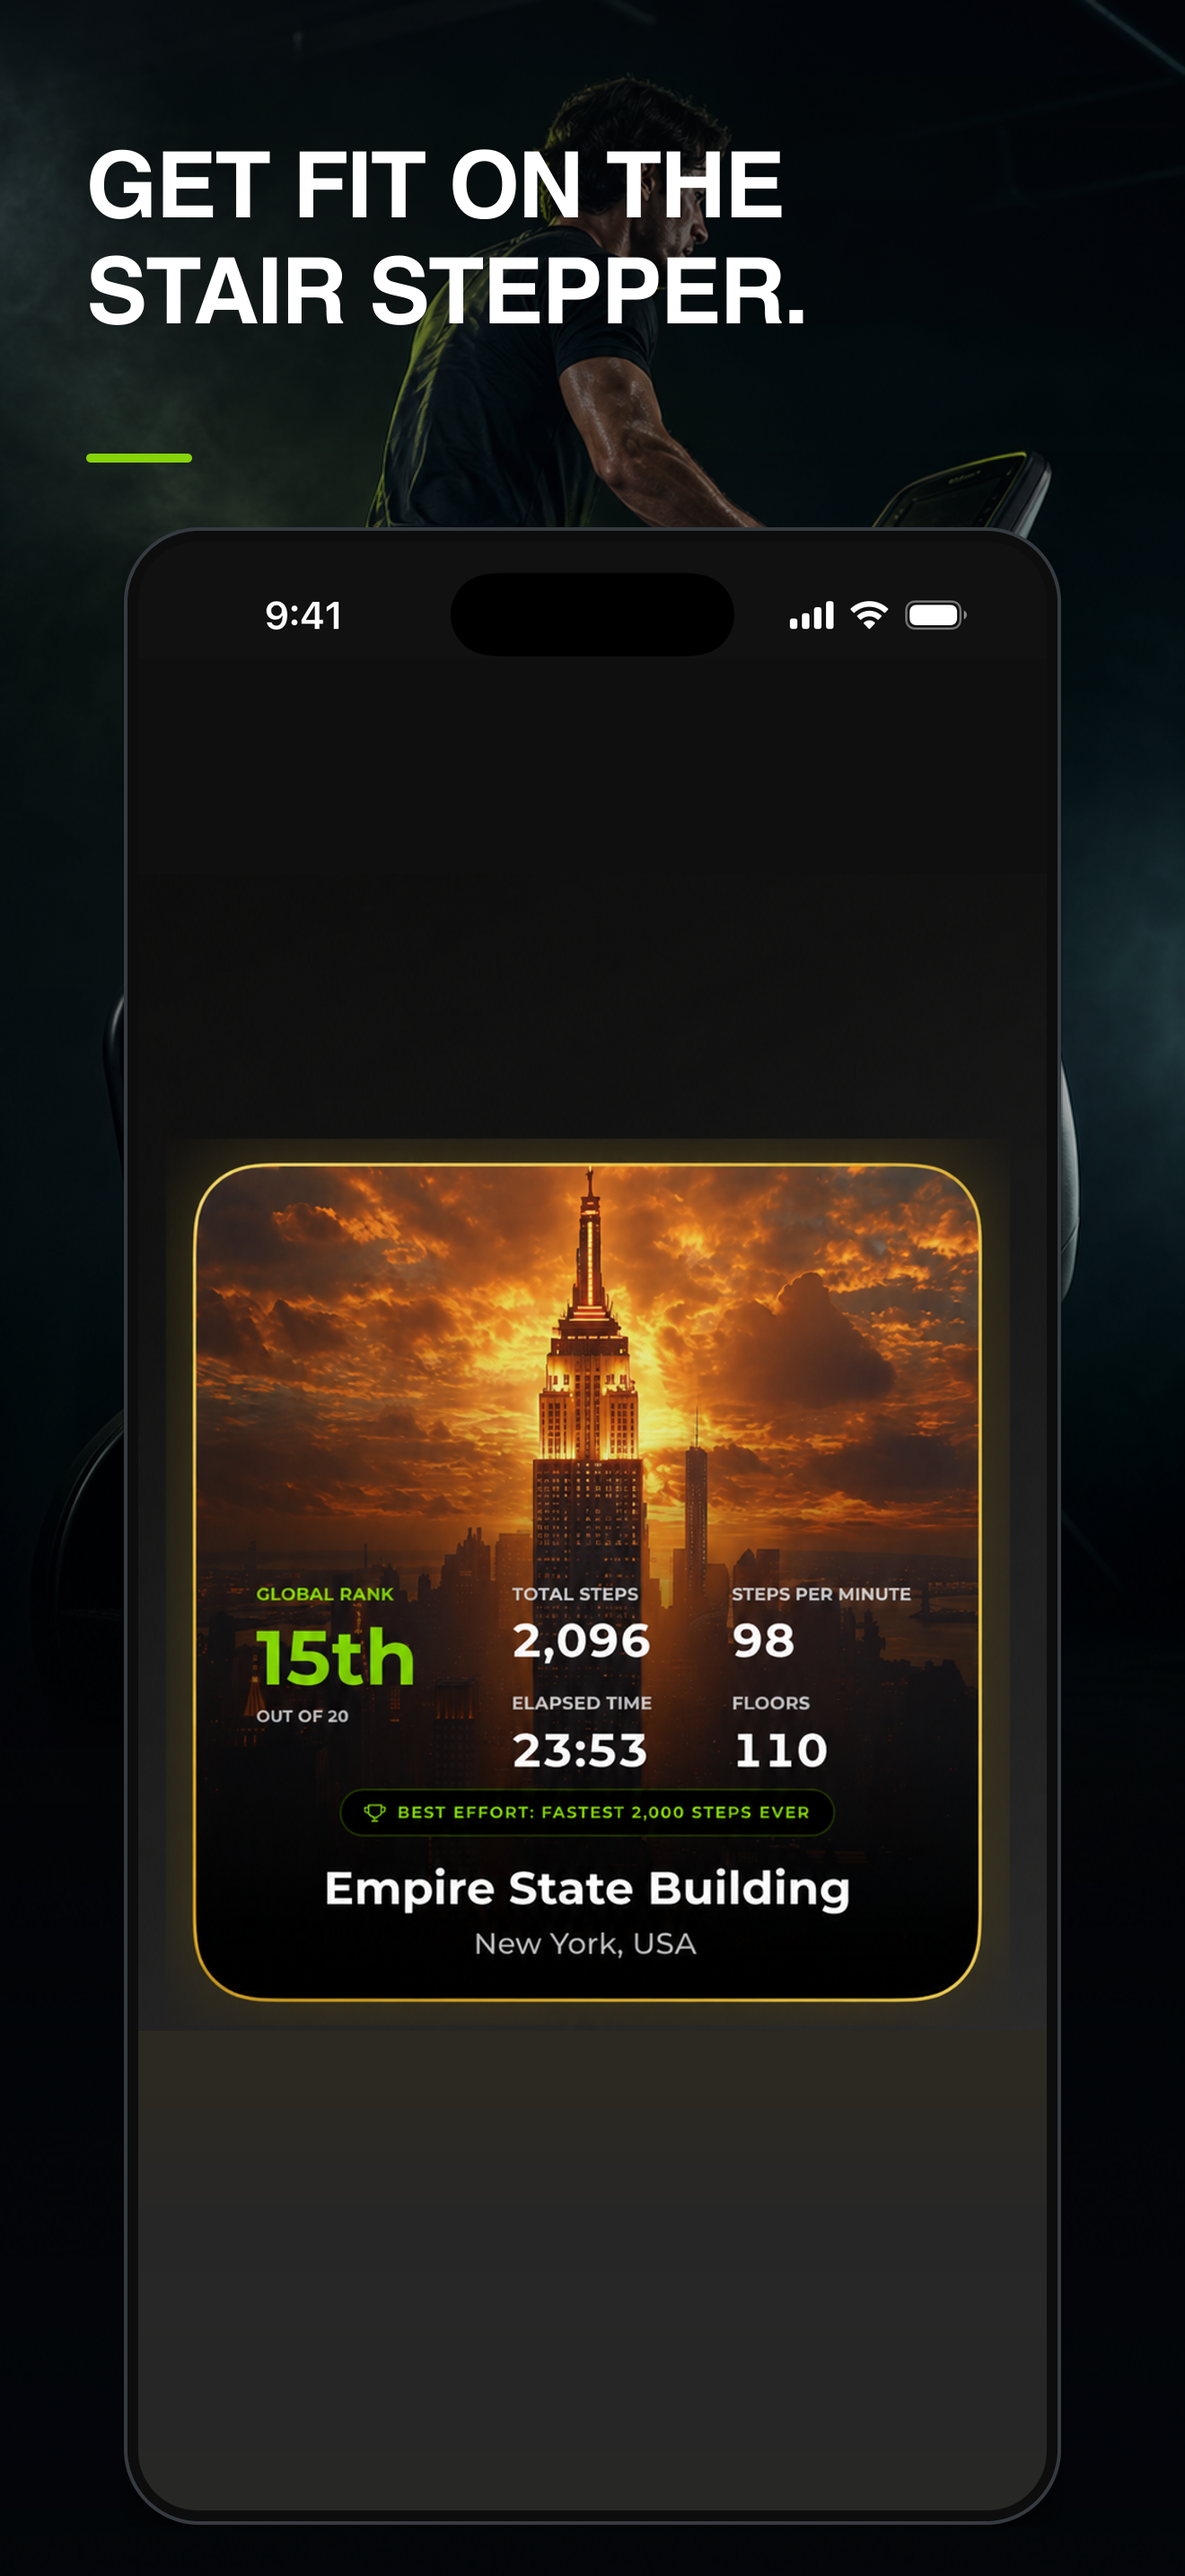
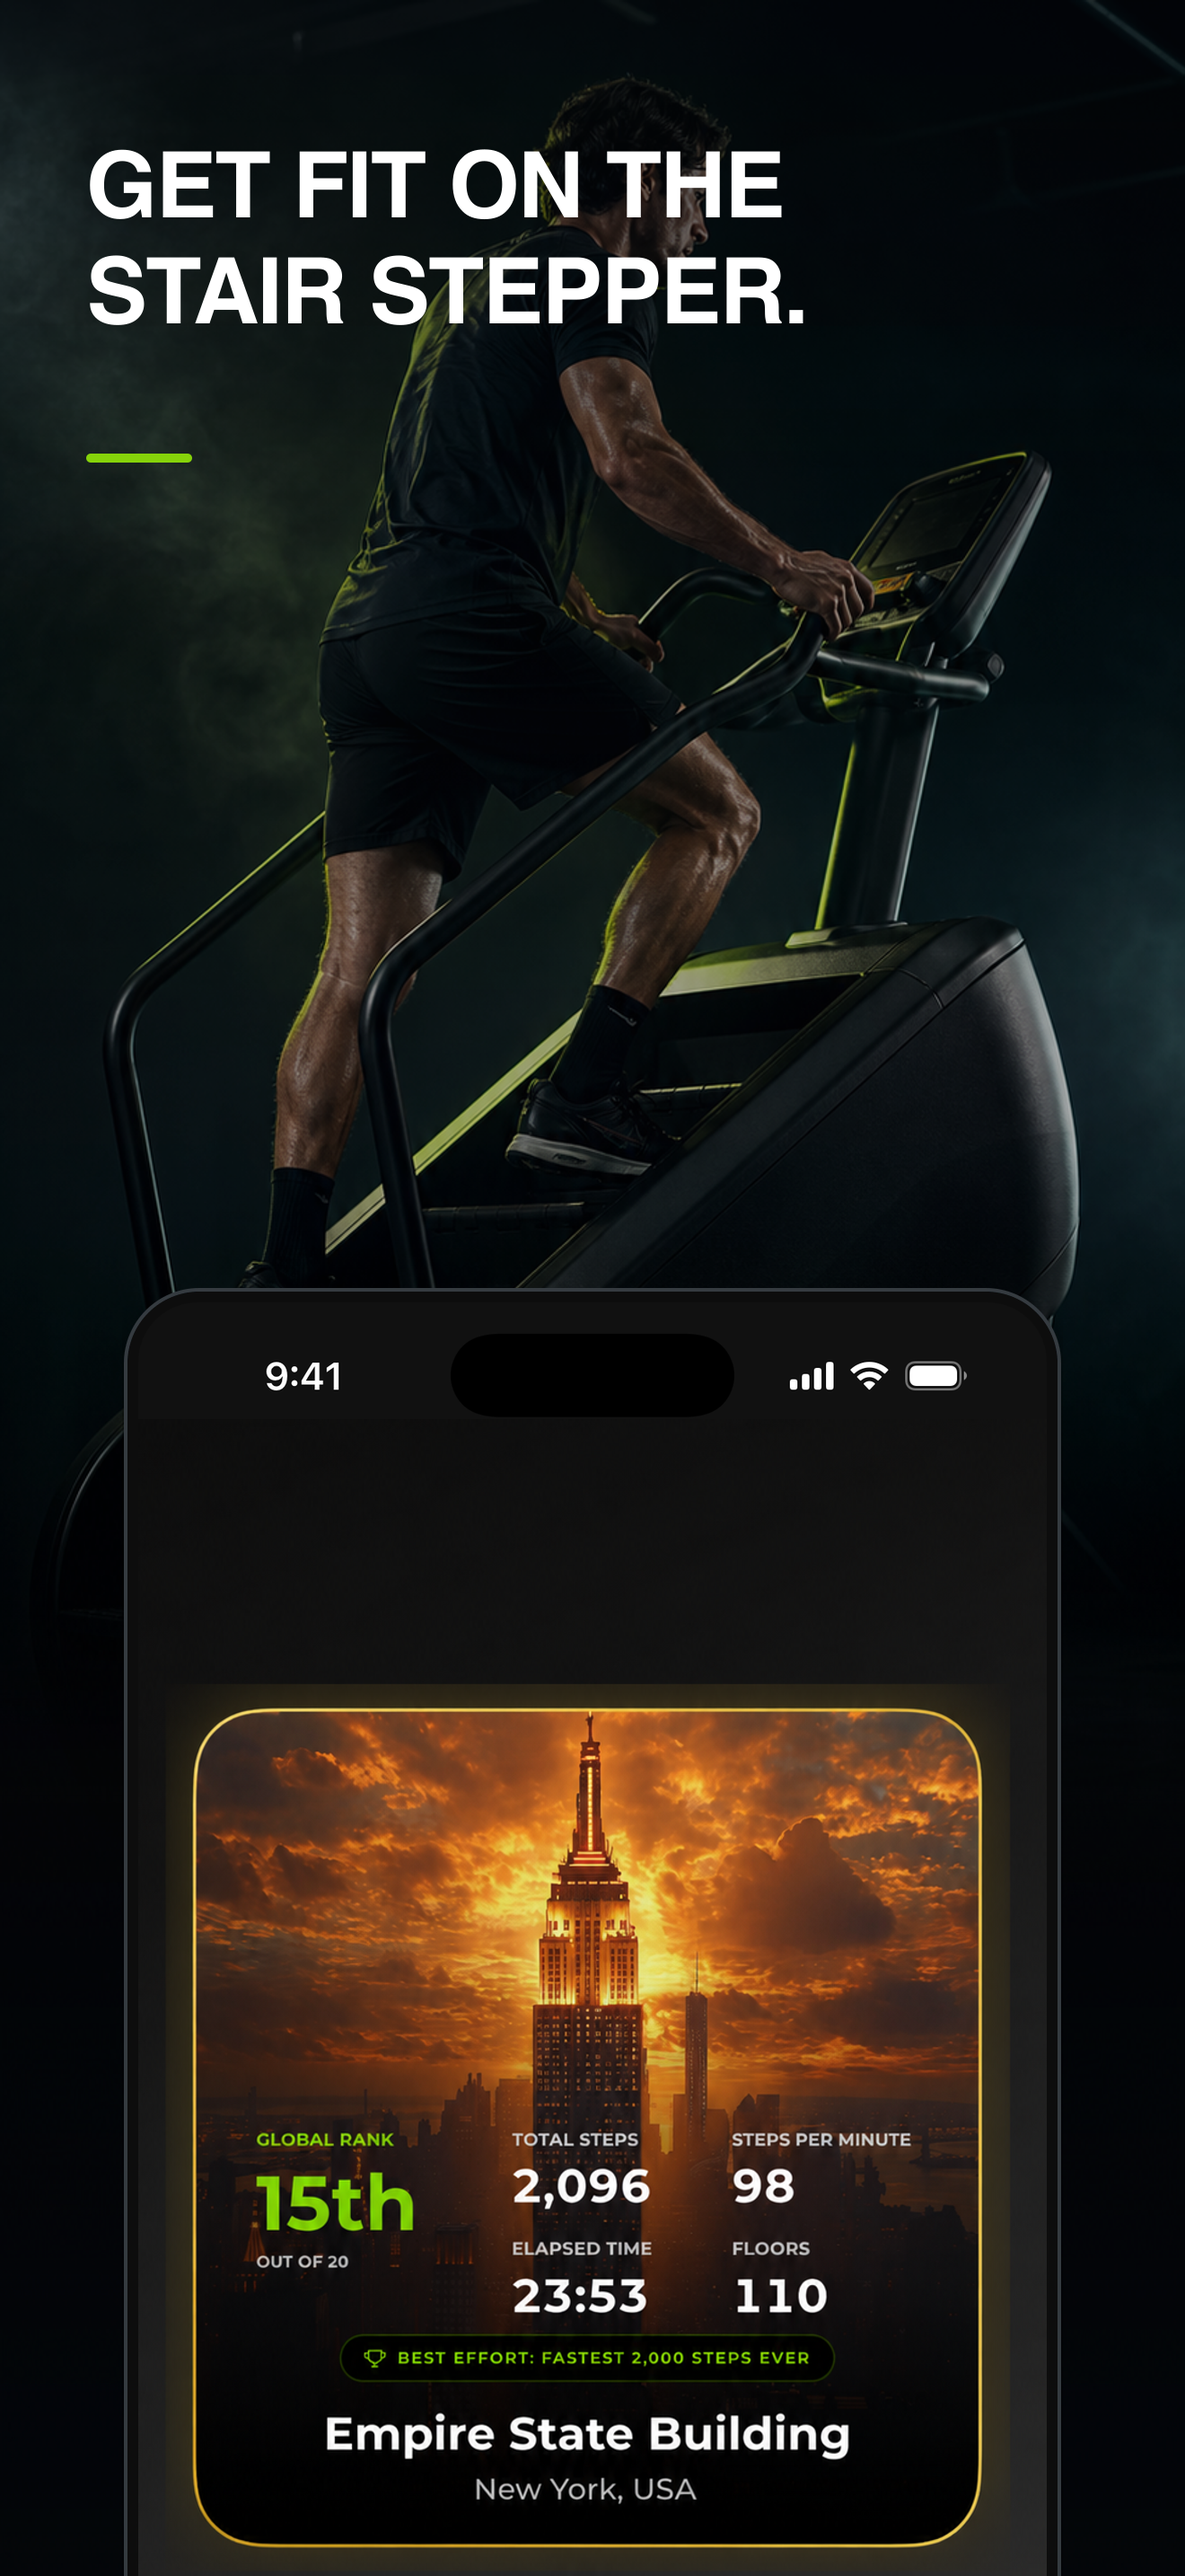
no-mistakes(review): use only real capture pixels at whole element boundaries

diff --git a/AppStoreAssets/qa/review.md b/AppStoreAssets/qa/review.md
@@ -5,18 +5,40 @@ Review date: July 29, 2026.
 The final rendered contact sheet was reviewed as one horizontal storefront sequence.
 The seven screens form a coherent progression from stair-stepper effort, to Everest-scale ambition, to landmark discovery, live racing, ranking, First Ascent prestige, and durable records.
 
+## Genuine pixels
+
+- Every pixel inside every phone screen comes from a real Ascend capture. Nothing is padded, stretched, averaged, tiled, or filled with an invented surface, and no gradient stands in for app UI.
+- The only composited layers are the two approved photographs, the headline type, the accent rule, and the device frame.
+- The status band is the one exception by design: a single real capture's status bar is reused on all seven screens so the clock, signal, Wi-Fi and battery match.
+
 ## Composition
 
-- All seven screenshots use the same phone geometry, inset height, inset width, and vertical placement.
-- The phone screen is 1012 x 2192, the 19.5:9 proportion of the device the captures came from, so every capture lands at its true shape.
-- The whole device sits inside the canvas: 1048 x 2228 at (136, 585) ends 55px above the bottom edge, so nothing is sliced by the canvas.
+- All seven screens use the same device: 1048 x 2218 with an 18px bezel and a 1012 x 2182 screen, the 19.5:9 proportion of the device the captures came from, so every capture lands at its true shape.
 - Every app body is scaled by width only. No screen loses a column of app UI, so no header, card corner, icon, wreath, row background, or control is cut off sideways.
-- Screens 03 and 05 fill the phone body from their captures with no crop at all; screens 02, 06 and 07 give up 9 rows at the very bottom of the capture; screen 04 gives up its blank leading padding and its home indicator.
-- Where app content meets the bottom of the phone screen - the Easiest carousel on 03, the fourth leaderboard row on 05 - it is the capture's own scroll edge, framed by the device bezel, exactly as the running app renders it.
-- Screens 01 and 02 have equal visual weight and identical device framing.
+- Screens 02 through 07 place the device at (136, 585), ending 65px above the bottom of the canvas with the whole frame visible.
+- Screen 01 runs its device off the bottom of the canvas, so its visible screen is 1012 x 1418. This is what lets the lead screenshot be entirely real: the recap card is about half a screen tall, and the capture has no further chrome-free surface below it, so a fully framed device could only have been completed with invented pixels.
+- The lead pair share the same device width, bezel, corner radius, status bar and headline block. Screen 01 gives more of its canvas to the photograph and less to the device; screen 02 the reverse. Their masses read as a matched pair rather than a repeat.
 - The two approved photographs are full-bleed and byte-identical to the preserved source files; the canvas is within half a percent of their aspect, so the fit is effectively uncropped.
 - Both photographic screens carry genuine Ascend UI.
 - No source is letterboxed.
+
+## Bottom boundaries
+
+Each screen declares the last capture row that must be whole and the first row that must not appear at all, and the renderer refuses to build a body whose bottom edge falls outside that gap.
+
+| Screen | Last whole element | Bottom edge | First excluded element |
+|---|---|---|---|
+| 01 | recap card, row 1339 | row 1346 | page dots, row 1351 |
+| 02 | supporting copy, row 2107 | row 2601 | end of capture, row 2622 |
+| 03 | Easiest section header, row 1546 | row 1565 | first Easiest card, row 1570 |
+| 04 | End attempt control, row 1766 | row 1774 | home indicator, row 1816 |
+| 05 | rule under the third leaderboard row, row 1550 | row 1565 | fourth row's avatar, row 1574 |
+| 06 | Skip control, row 2380 | row 2601 | end of capture, row 2622 |
+| 07 | chart card's rounded bottom, row 2621 | row 2622 | end of capture, row 2622 |
+
+- No card, row, glyph, icon, or control is sliced at any edge on any screen.
+- Screen 03's Machu Picchu card runs off the right of the phone screen because that carousel scrolls horizontally in the running app; that is the capture's own state, not a crop.
+- Screen 07 shows the Best Effort chart card complete, including its rounded bottom corners.
 - No action, primary or secondary, is partially visible at any edge.
 - Every app body begins below the status bar at a complete UI boundary.
 
@@ -31,12 +53,11 @@ The seven screens form a coherent progression from stair-stepper effort, to Ever
 ## Content coherence
 
 - Screen 01 pairs stair-stepper effort photography with the genuine Live Climb recap card: 15th global rank, 2,096 steps, 98 SPM, 23:53, 110 floors, and Empire State Building.
-- Screen 01's phone body is the widest chrome-free window of the real share capture - the card and the app background around it - centred on the card, with the window's own edge tone continuing to the top and bottom of the screen. There is no invented gradient and no invented app surface.
-- Screen 01 contains no share-sheet title, dismissal control, explanatory copy, or share-destination buttons.
+- Screen 01 contains no share-sheet title, dismissal control, explanatory copy, page dots, or share-destination buttons.
 - Screen 02 pairs its Everest headline with an app surface that visibly includes the Everest card and names Mt. Everest in its supporting copy. All six landmark cards are whole.
-- Screen 03 shows the live globe and real landmark catalog, with the Popular header, its See all action, and the Machu Picchu card complete.
+- Screen 03 shows the live globe and real landmark catalog, with the Popular header, its See all action, and all three Popular cards complete.
 - Screen 04 shows an in-progress replay leaderboard with the current climber highlighted and the real, enabled End attempt control. Nothing below the list is painted in.
-- Screen 05 shows the per-climb completion leaderboard and does not use the known-bad split-summary capture.
+- Screen 05 shows the per-climb completion leaderboard, its top three finishers complete, and does not use the known-bad split-summary capture.
 - Screen 06 shows the real First Ascent badge, First Ascent copy, a genuinely enabled notification action, and its complete Skip control.
 - Screen 07 shows a real Best Effort record, its whole laurel wreath, and its progression chart with a complete axis.
 - No disabled primary action appears anywhere in the set.
@@ -57,4 +78,4 @@ The seven screens form a coherent progression from stair-stepper effort, to Ever
 - Every file is exactly 1320 x 2868.
 - Every file is sRGB.
 - No file has an alpha channel.
-- The renderer refuses to run if the phone frame would bleed past the canvas, and refuses to build a body from a capture that is too short to fill the screen without cropping sideways.
+- The renderer refuses to run if a device would fall outside the band between the headline rule and the bottom of the canvas, if a capture is too short to fill the screen without cropping sideways, or if a body's bottom edge would slice a declared element.

diff --git a/AppStoreAssets/README.md b/AppStoreAssets/README.md
@@ -14,13 +14,13 @@ The app target is iPhone-only, so there is no iPad set.
 
 ## Source integrity
 
-Every input lives in `sources/`, so the package renders the same whatever else changes in the repository.
-Nothing is read from `web/`.
+Every image input lives in `sources/`, so re-cropping or replacing a website marketing image cannot change these renders.
+Nothing under `web/` is read as image input; the only thing this script takes from `web/` is the Sharp package - see Render below.
 
 The two approved transformation photographs are preserved as `01-stair-stepper-effort.png` and `02-everest-summit.png`.
 They are used as full-bleed backgrounds rather than replaced.
 
-Every screen contains genuine Ascend UI, taken whole:
+Every screen contains genuine Ascend UI, and every pixel inside every phone screen comes from one of these captures:
 
 | Screen | Capture |
 |---|---|
@@ -35,28 +35,30 @@ Every screen contains genuine Ascend UI, taken whole:
 ## Geometry
 
 The phone screen is sized from the captures rather than the other way round.
-Every capture is a whole 19.5:9 iPhone screen, so the inner screen is 1012 x 2192 and each capture lands at its true proportions.
+Every capture is a whole 19.5:9 iPhone screen, so the screen is 1012 x 2182 and each capture lands at its true proportions.
 Scaling is always width-driven, which is what keeps app text, card edges and controls off the crop line.
 
-The whole device fits inside the canvas, so nothing is sliced by the canvas edge.
-Where app content does meet the bottom of the phone screen it is the capture's own scroll edge, framed by the bezel, as the running app renders it.
+Each screen declares the last capture row that must be whole and the first row that must not appear at all.
+The body height was chosen so every screen's bottom edge lands in the gap between those two rows, and the renderer refuses to build a body that falls outside it.
+`qa/review.md` tabulates the boundary chosen for each screen.
+
+Screens 02 through 07 show the whole device inside the canvas.
+Screen 01 runs its device off the bottom: the recap card is about half a screen tall and the capture has no further chrome-free surface below it, so a fully framed device could only have been completed with invented pixels. Bleeding it instead keeps the lead screenshot entirely real.
 
 The renderer reuses one status-bar master on all seven screens.
 That master supplies the same 9:41 clock, full signal, full Wi-Fi, full battery, and correctly placed Dynamic Island pill.
 
-Screen 01 is the one screen whose subject is smaller than a phone screen: the recap card is roughly half a screen tall.
-Its body is the widest chrome-free window of the real capture, centred on the card, with that window's own edge tone continuing to the top and bottom of the screen.
-
 ## Render
 
-Install the website dependencies, then run the renderer from anywhere:
+Sharp is resolved from `web/node_modules` through `web/package.json`, which is the repository's only declaration of it; there is no separate manifest here.
+Install the website dependencies first, then run the renderer from anywhere:
 
 ```bash
 npm --prefix web ci
 node AppStoreAssets/render-screenshots.mjs
 ```
 
-`sharp` is resolved from `web/node_modules`; every other path is derived from the script's own location.
+Every path other than that Sharp lookup is derived from the script's own location, so the working directory does not matter.
 
-Before writing anything the renderer checks that the phone frame fits inside the canvas, and it refuses to build a body from a capture too short to fill the screen without cropping sideways.
+Before writing anything the renderer checks that each device fits between the headline rule and the bottom of the canvas, that each capture is tall enough to fill the screen without cropping sideways, and that no body's bottom edge slices a declared element.
 After rendering it validates the exact file count, dimensions, sRGB color space, absence of alpha, and status-bar uniformity, then writes the contact sheet.
